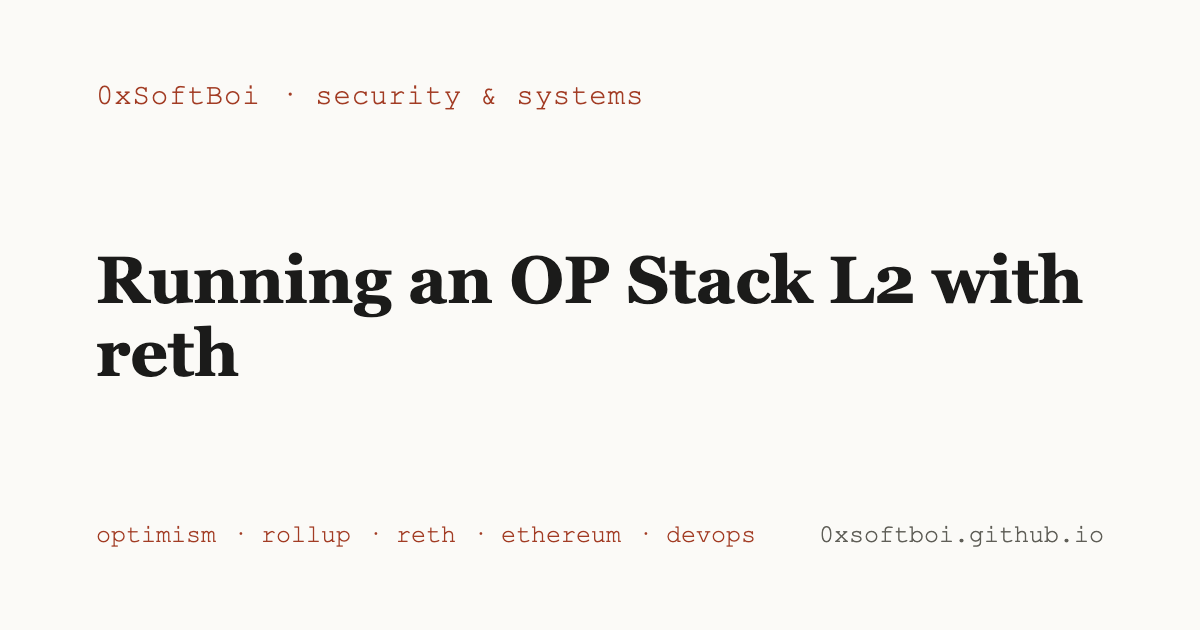
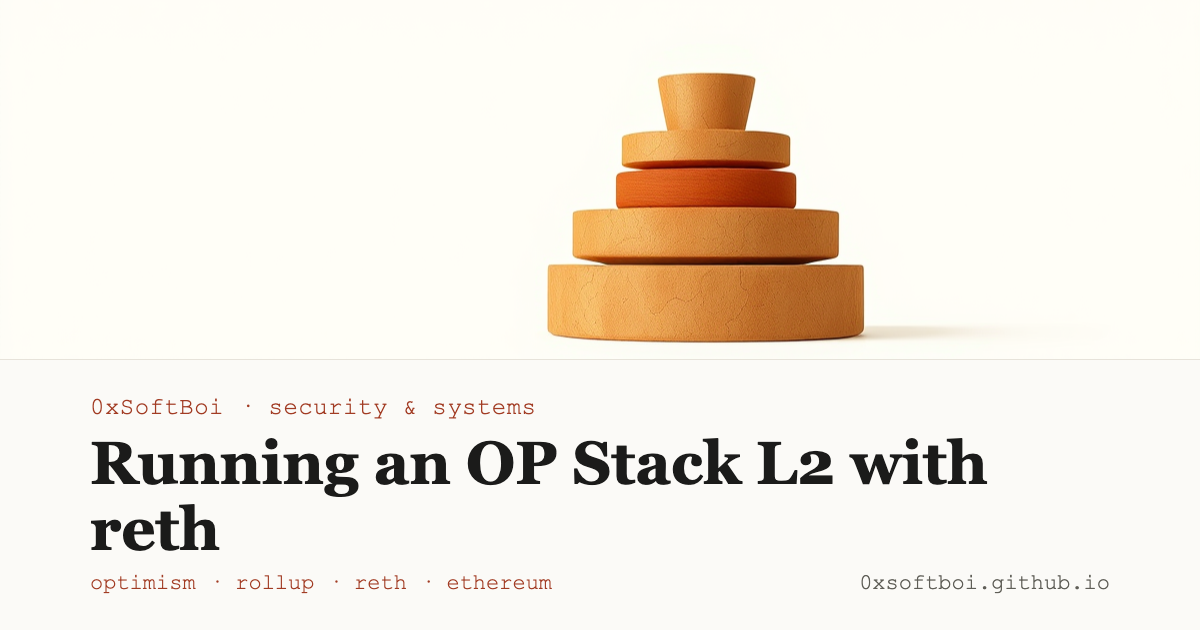
Themed art + series for "Running an OP Stack L2 with reth"
Themed OG card + in-page hero; new "Systems & infrastructure" series for the
infra/devops posts.

diff --git a/_charts/gen_post_art.py b/_charts/gen_post_art.py
@@ -47,6 +47,7 @@ MOTIFS = {
     "the-index-fund-that-held-the-wrong-asset": "a basket of asset tokens that is secretly empty, a mismatched gauge",
     "rebuilding-a-perps-dex-from-its-docs": "a perpetual-futures price chart reconstructed from blueprint documents, a hidden house-edge tilt",
     "a-social-good-protocol-built-by-an-agent-fleet": "a fleet of small agent nodes collaboratively assembling a contract, one node inspecting another's work",
+    "running-an-op-stack-l2-with-reth": "a layered rollup stack settling onto a base chain, four interlocking process blocks sharing a key, a pipeline of CI checks",
 }
 
 

diff --git a/_posts/2026-06-09-running-an-op-stack-l2-with-reth.md b/_posts/2026-06-09-running-an-op-stack-l2-with-reth.md
@@ -2,6 +2,7 @@
 layout: post
 title: "Running an OP Stack L2 with reth"
 date: 2026-06-09
+series: "Systems & infrastructure"
 tags: [optimism, rollup, reth, ethereum, devops]
 image: /assets/og/running-an-op-stack-l2-with-reth.png
 excerpt: "An OP Stack rollup is four processes and a shared secret. I finalized an old deployment of mine into something reproducible — and the part that actually caught bugs wasn't me, it was CI."
